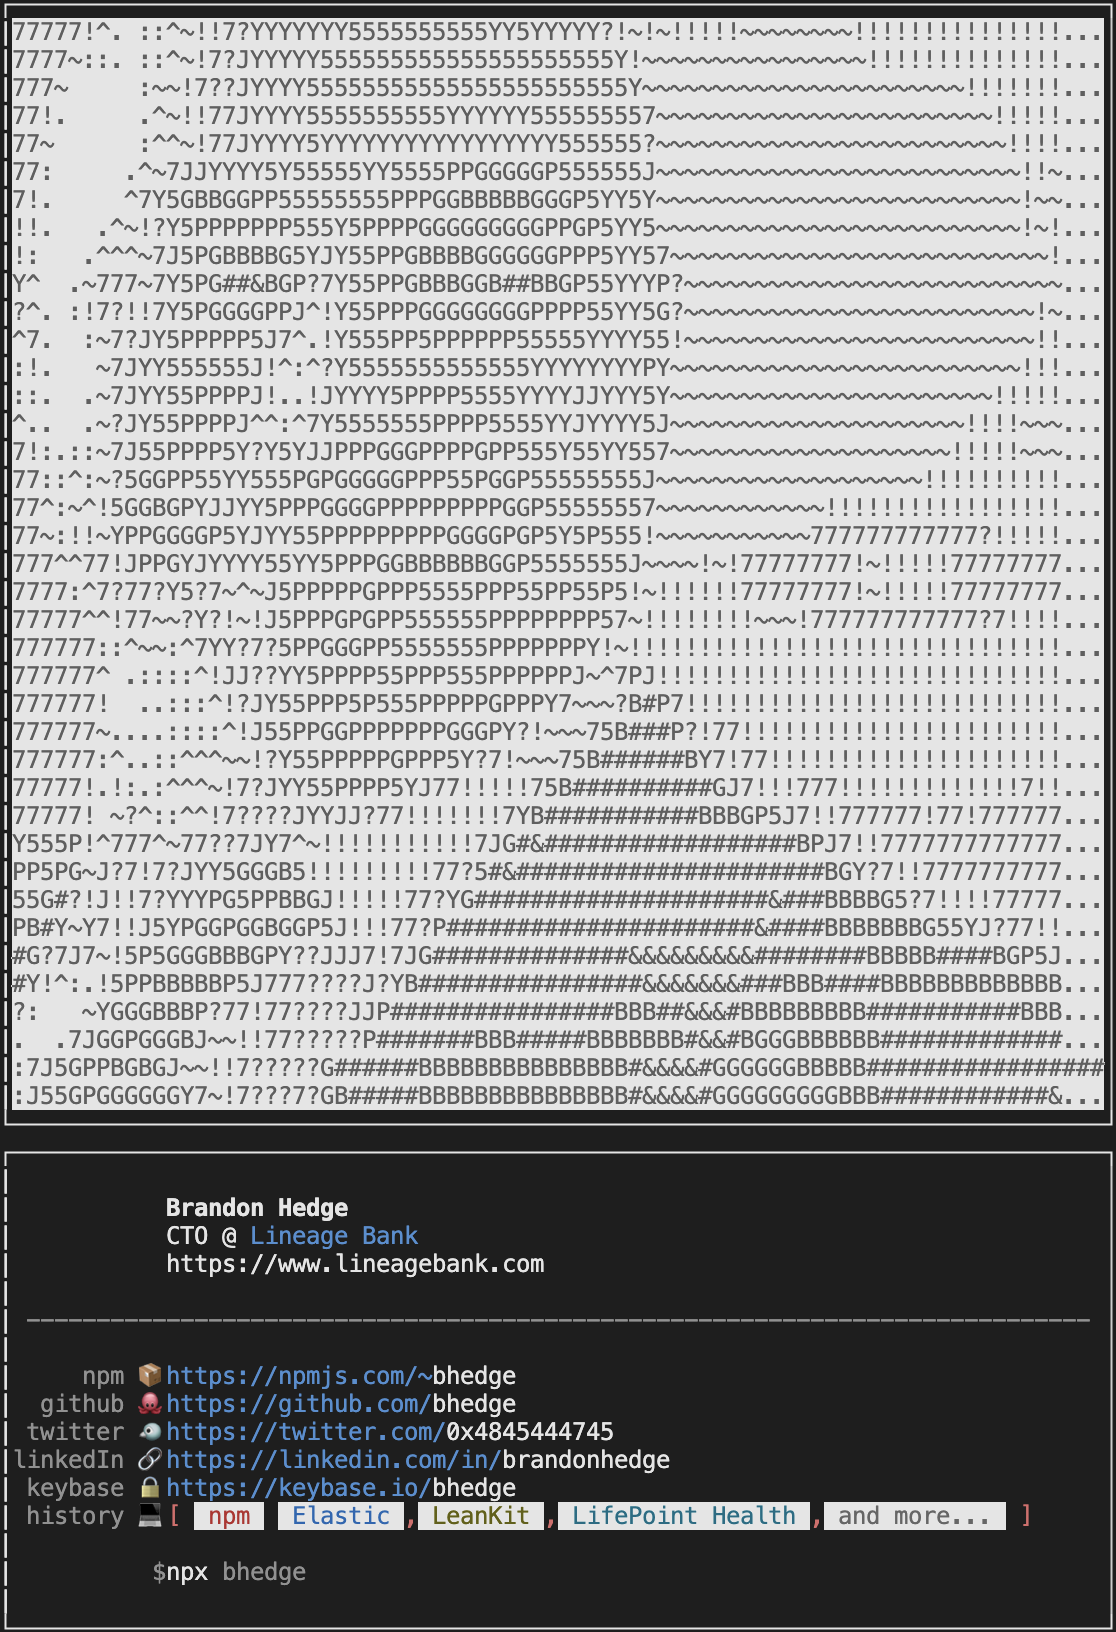
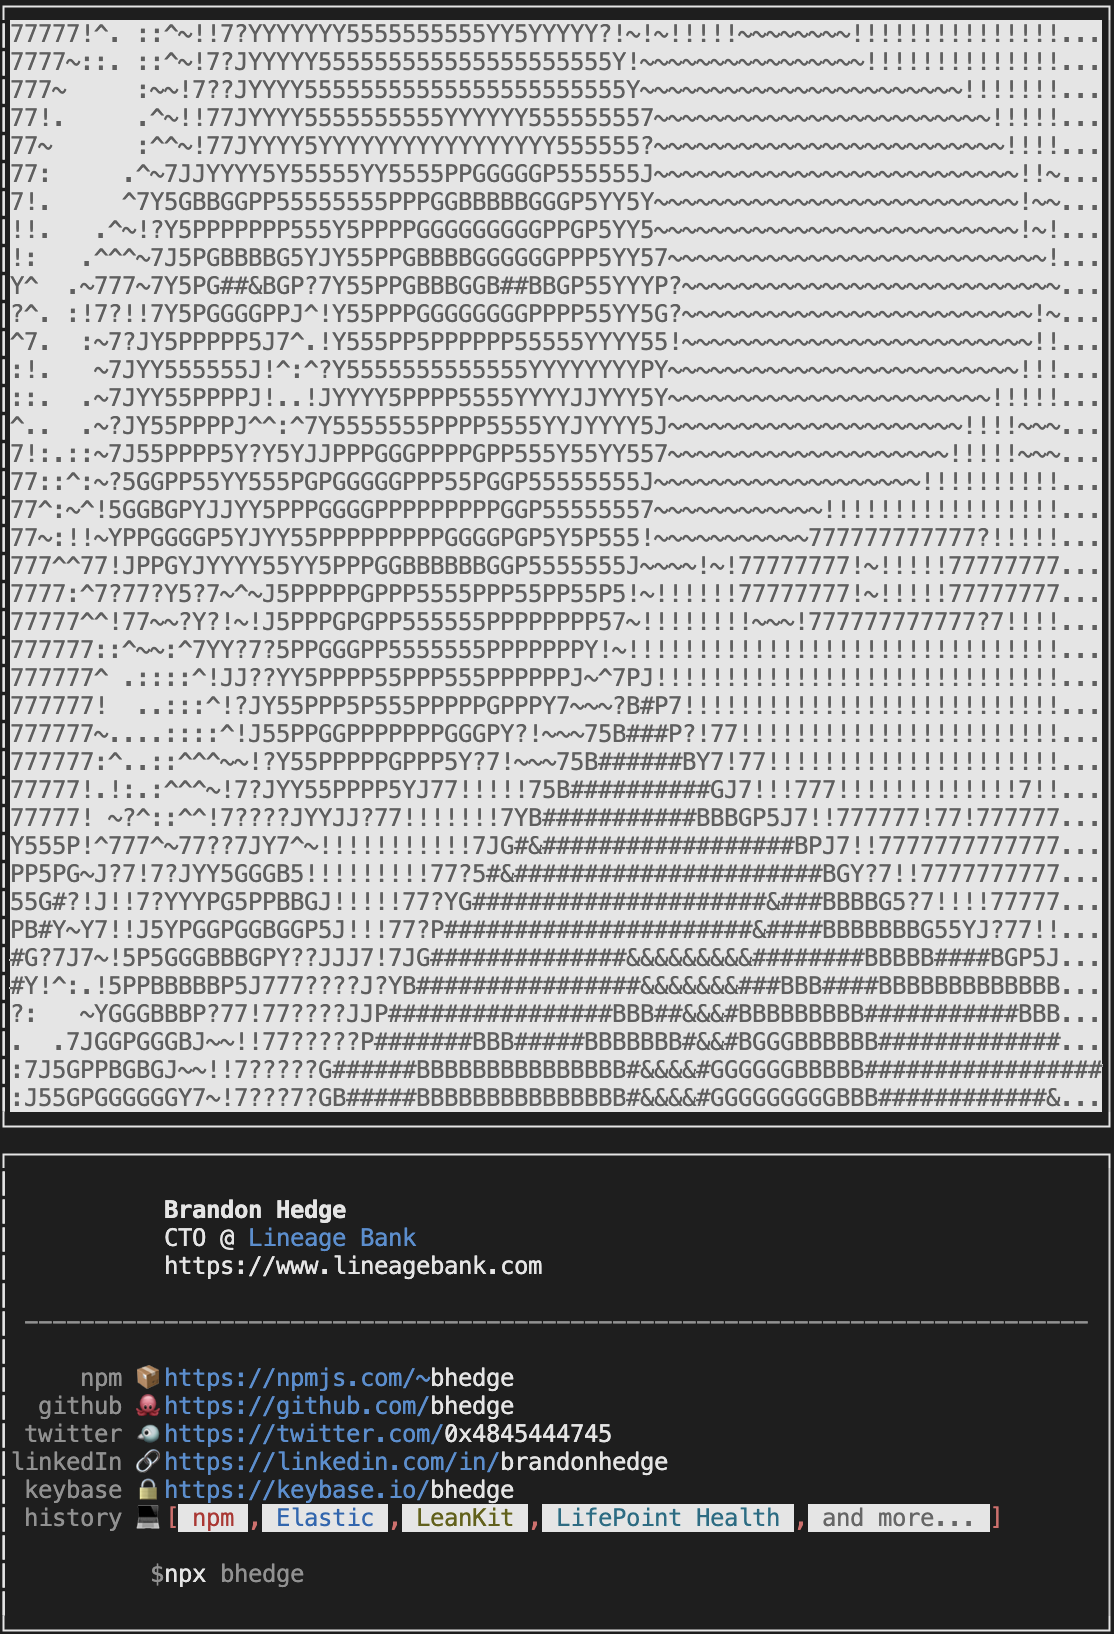
missing comma

Changed region(s): [[0.0, 0.0, 1.0, 1.0], [0.8851, 0.9062, 0.9156, 0.9375], [0.4578, 0.75, 0.4883, 0.7812]]

diff --git a/bin/card.js b/bin/card.js
@@ -98,7 +98,7 @@ const data = {
   },
   previous: {
     label: 'history 💻',
-    value: colors.red(`[ ${colors.red(' npm ').bgWhite} ${colors.blue(' Elastic ').bgWhite},${colors.yellow(' LeanKit ').bgWhite},${colors.cyan(' LifePoint Health ').bgWhite},${colors.gray(' and more... ').bgWhite} ]`)
+    value: colors.red(`[${colors.red(' npm ').bgWhite},${colors.blue(' Elastic ').bgWhite},${colors.yellow(' LeanKit ').bgWhite},${colors.cyan(' LifePoint Health ').bgWhite},${colors.gray(' and more... ').bgWhite}]`)
   },
 };
 
